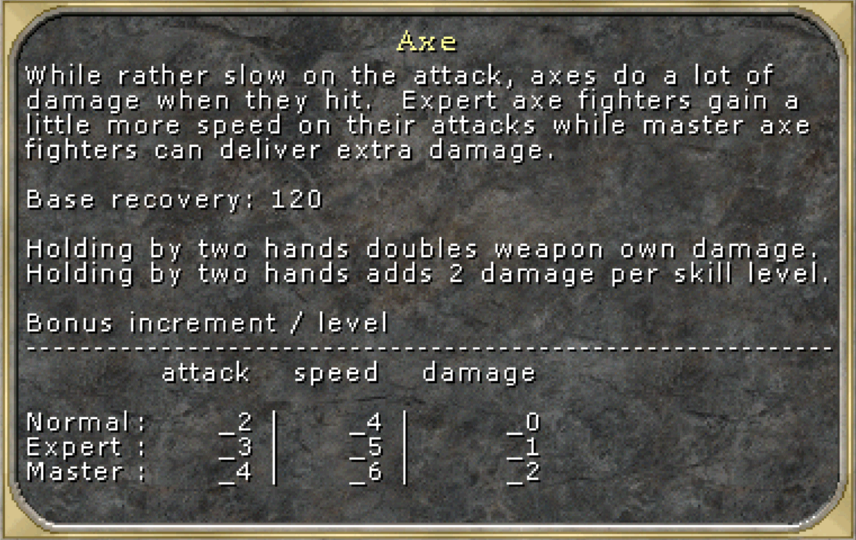
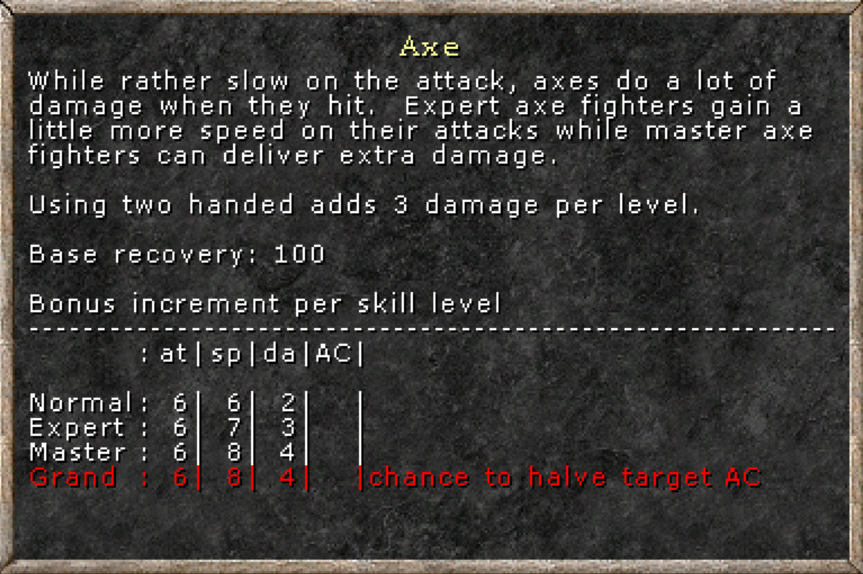
readme update

diff --git a/README.md b/README.md
@@ -11,47 +11,15 @@ Return RPG element into the game by emphasising skill importance.
 * All skills should be somehow useful.
 * All buffs should be somehow useful.
 
-# Recovery
-
-## Recovery caps
-
-Melee recovery cap is reduced to 10. This still seem to be reasonable cap for end game. Yet it is almost never reachable anyway.
-
-I didn't change ranged recovery cap but it seems that is does not exist!
-
-## Computation mechanics
-
-Intuitive player assumption is that bigger stat value is better, the bonus is positive, penalty is negative. MM recovery mechanics uses an inverse scale which makes it a little difficult to grasp at first. This also creates inherent flaw when attack rate growths faster with skill progression and then suddenly stops at easily reachable cap. From then on it is a complete waste to invest into recovery any more. All speed increasing weapons suddenly become ineffective to develop any further.
-
-This mod internally introduces a notion of attack rate which is a reciprocal to recovery time. All recovery time bonuses now increase the attack rate and it is computed same way as any other positive game stats. Meaning adding 100 attack rate bonus on top of initial 100 attack rate value makes player attack twice as fast which corresponds to 50 recovery. With this approach reaching recovery time cap is still possible but much harder. See computation example below.
-
-Keep in mind that even though computation mechanics changed the attack rate value is still converted to recovery for the purpose of UI display and in game text/help and combat computations.
-
-## Computation example
-
-### Vanilla
-
-<pre>
-Dagger    =  60 base recovery
-500 speed =  30 recovery bonus
-haste     =  25 recovery bonus
-
-result		=   5 recovery which is actually capped at 30
-</pre>
-
-### This mod
-
-<pre>
-Total recovery bonus from above example: 40 (dagger) + 30 (speed) + 25 (haste) = 95
-Resulting attack rate:                   100 + 95 = 195
-Converting back to recovery:             100 * (100 / 195) = 51, cap is not reached
-</pre>
-
 # Combat skills
 
 ## Weapon skills
 
 ### Standard bonuses
+
+These are: attack, recovery, damage, AC. You can check them in game description.
+
+![Axe](https://github.com/tnevolin/mm7-skill-emphasis-mod/blob/main/_images/axe_description.png)
 
 All skills provide same bonuses as they do in vanilla. However, these bonuses are available immediately at Normal rank. Rank now controls how fast these bonuses progress with level instead of triggering them. Bonuses increment per level is much higher than in vanilla and varies based on their combat impact.
 
@@ -411,3 +379,42 @@ This is a convenience fix. I am tired to reload game hundreds times just to find
 |Chain		|M			|-			|E			|E			|N			|N			|N			|N			|N			|
 |Plate		|G			|-			|-			|M			|N			|N			|N			|N			|N			|
 |Dodging	|-			|G			|M			|N			|N			|N			|N			|N			|N			|
+
+# Mechanics modification
+
+# Recovery
+
+## Recovery caps
+
+Melee recovery cap is reduced to 10. This still seem to be reasonable cap for end game. Yet it is almost never reachable anyway.
+
+I didn't change ranged recovery cap but it seems that is does not exist!
+
+## Computation mechanics
+
+Intuitive player assumption is that bigger stat value is better, the bonus is positive, penalty is negative. MM recovery mechanics uses an inverse scale which makes it a little difficult to grasp at first. This also creates inherent flaw when attack rate growths faster with skill progression and then suddenly stops at easily reachable cap. From then on it is a complete waste to invest into recovery any more. All speed increasing weapons suddenly become ineffective to develop any further.
+
+This mod internally introduces a notion of attack rate which is a reciprocal to recovery time. All recovery time bonuses now increase the attack rate and it is computed same way as any other positive game stats. Meaning adding 100 attack rate bonus on top of initial 100 attack rate value makes player attack twice as fast which corresponds to 50 recovery. With this approach reaching recovery time cap is still possible but much harder. See computation example below.
+
+Keep in mind that even though computation mechanics changed the attack rate value is still converted to recovery for the purpose of UI display and in game text/help and combat computations.
+
+## Computation example
+
+### Vanilla
+
+<pre>
+Dagger    =  60 base recovery
+500 speed =  30 recovery bonus
+haste     =  25 recovery bonus
+
+result		=   5 recovery which is actually capped at 30
+</pre>
+
+### This mod
+
+<pre>
+Total recovery bonus from above example: 40 (dagger) + 30 (speed) + 25 (haste) = 95
+Resulting attack rate:                   100 + 95 = 195
+Converting back to recovery:             100 * (100 / 195) = 51, cap is not reached
+</pre>
+
